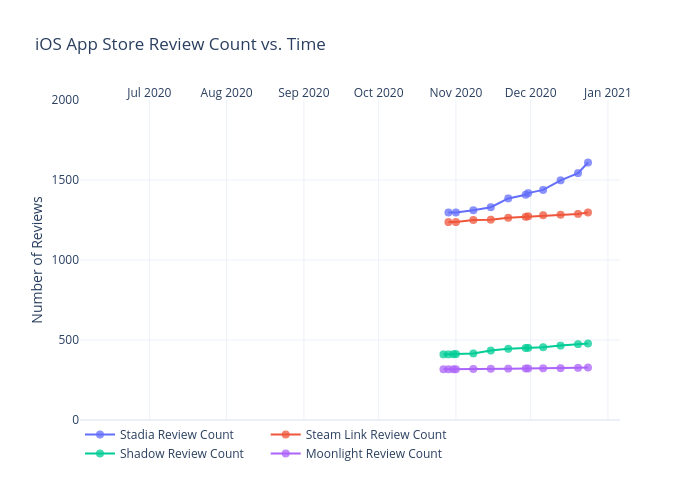
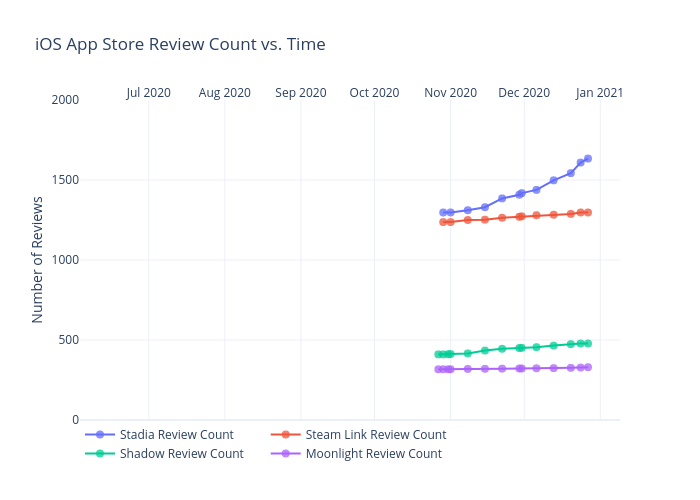
Add files via upload

diff --git a/iosappstore/figure.js b/iosappstore/figure.js
@@ -47,7 +47,8 @@ var figure = {
                 "1438",
                 "1498",
                 "1543",
-                "1609"
+                "1609",
+                "1634"
             ],
             "marker": {
                 "size": 8,
@@ -104,6 +105,7 @@ var figure = {
                 "1280",
                 "1283",
                 "1288",
+                "1297",
                 "1297"
             ],
             "marker": {
@@ -161,6 +163,7 @@ var figure = {
                 "455",
                 "465",
                 "474",
+                "478",
                 "478"
             ],
             "marker": {
@@ -218,7 +221,8 @@ var figure = {
                 "323",
                 "324",
                 "326",
-                "328"
+                "328",
+                "330"
             ],
             "marker": {
                 "size": 8,
@@ -237,8 +241,8 @@ var figure = {
             "side": "top",
             "type": "date",
             "range": [
-                "2020-06-04 00:43:47.0644",
-                "2021-01-04 23:16:12.9356"
+                "2020-06-03 20:13:03.5104",
+                "2021-01-08 03:46:56.4896"
             ],
             "title": {
                 "text": ""
